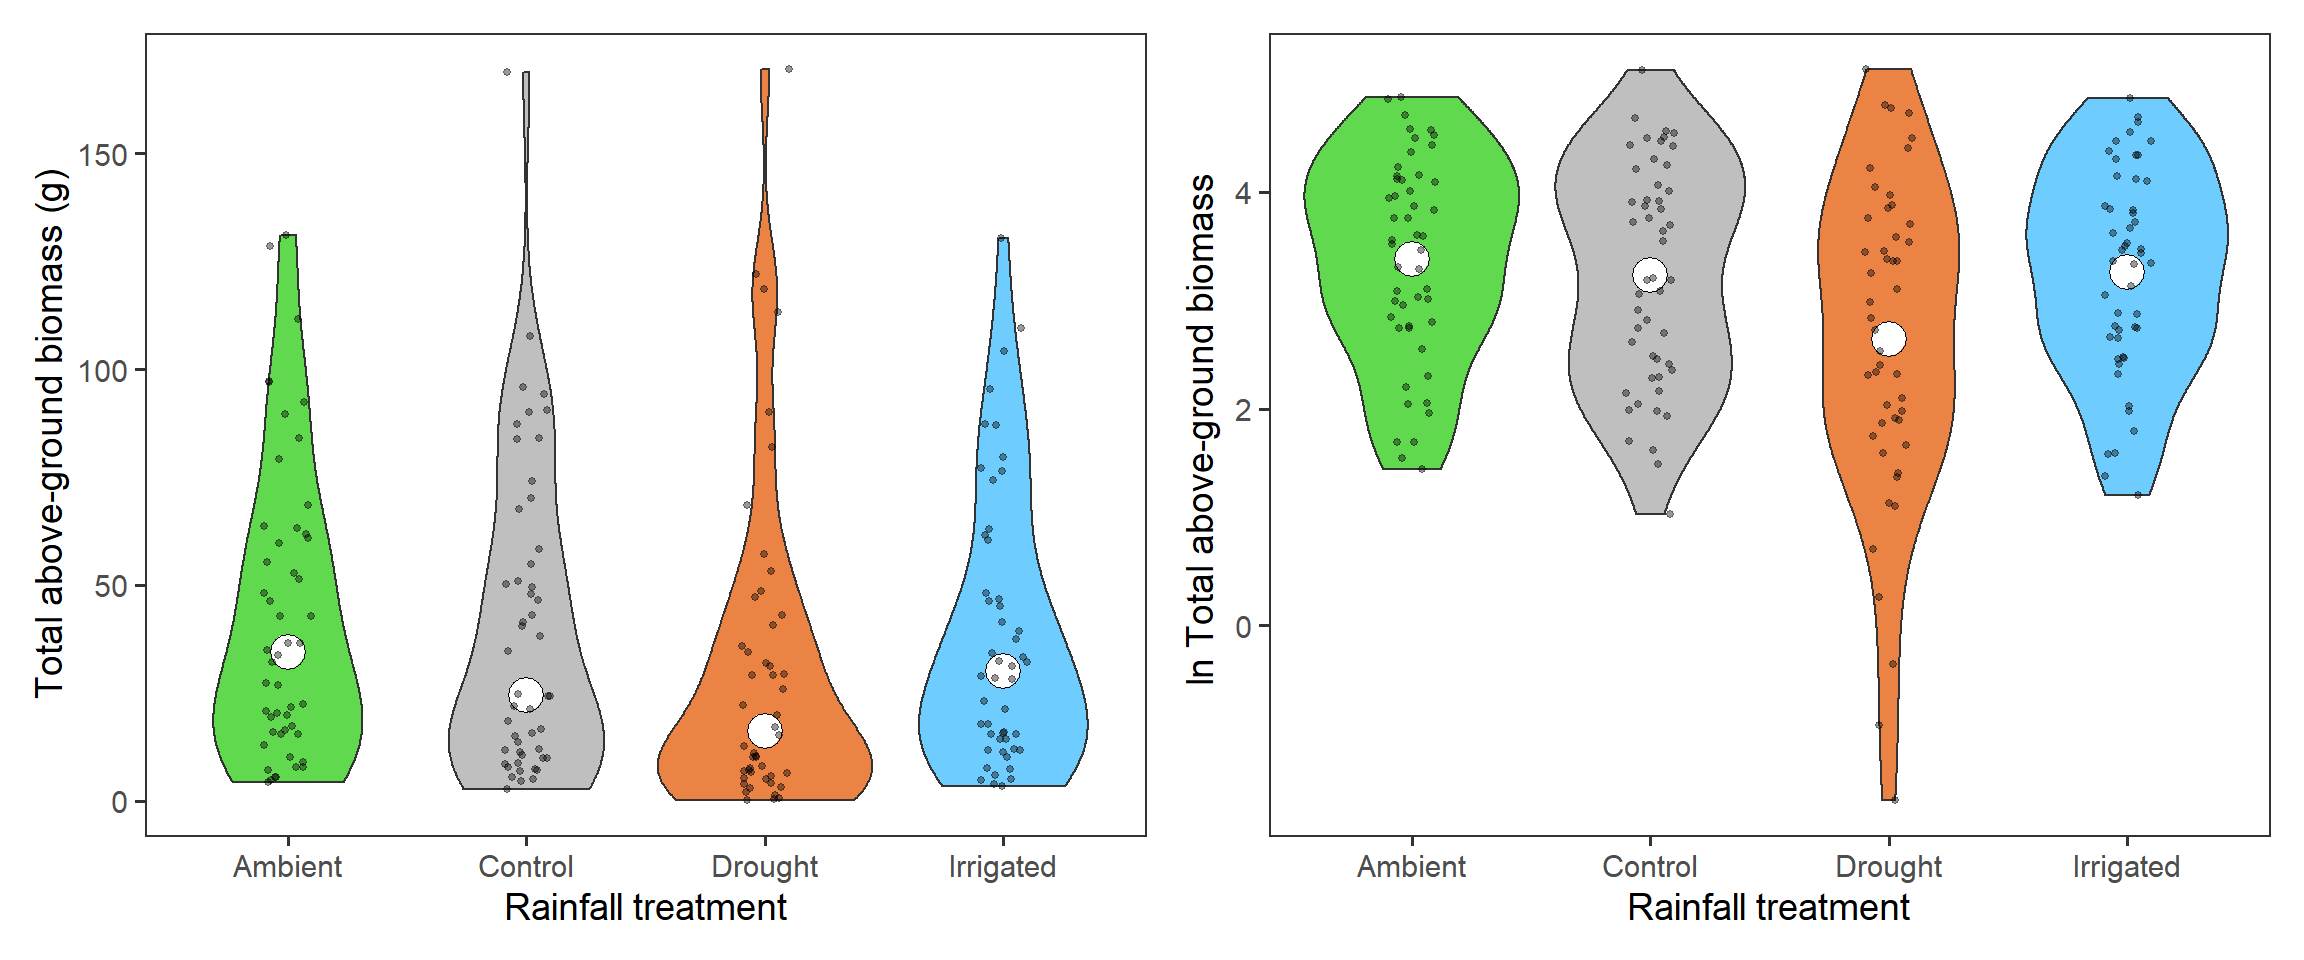
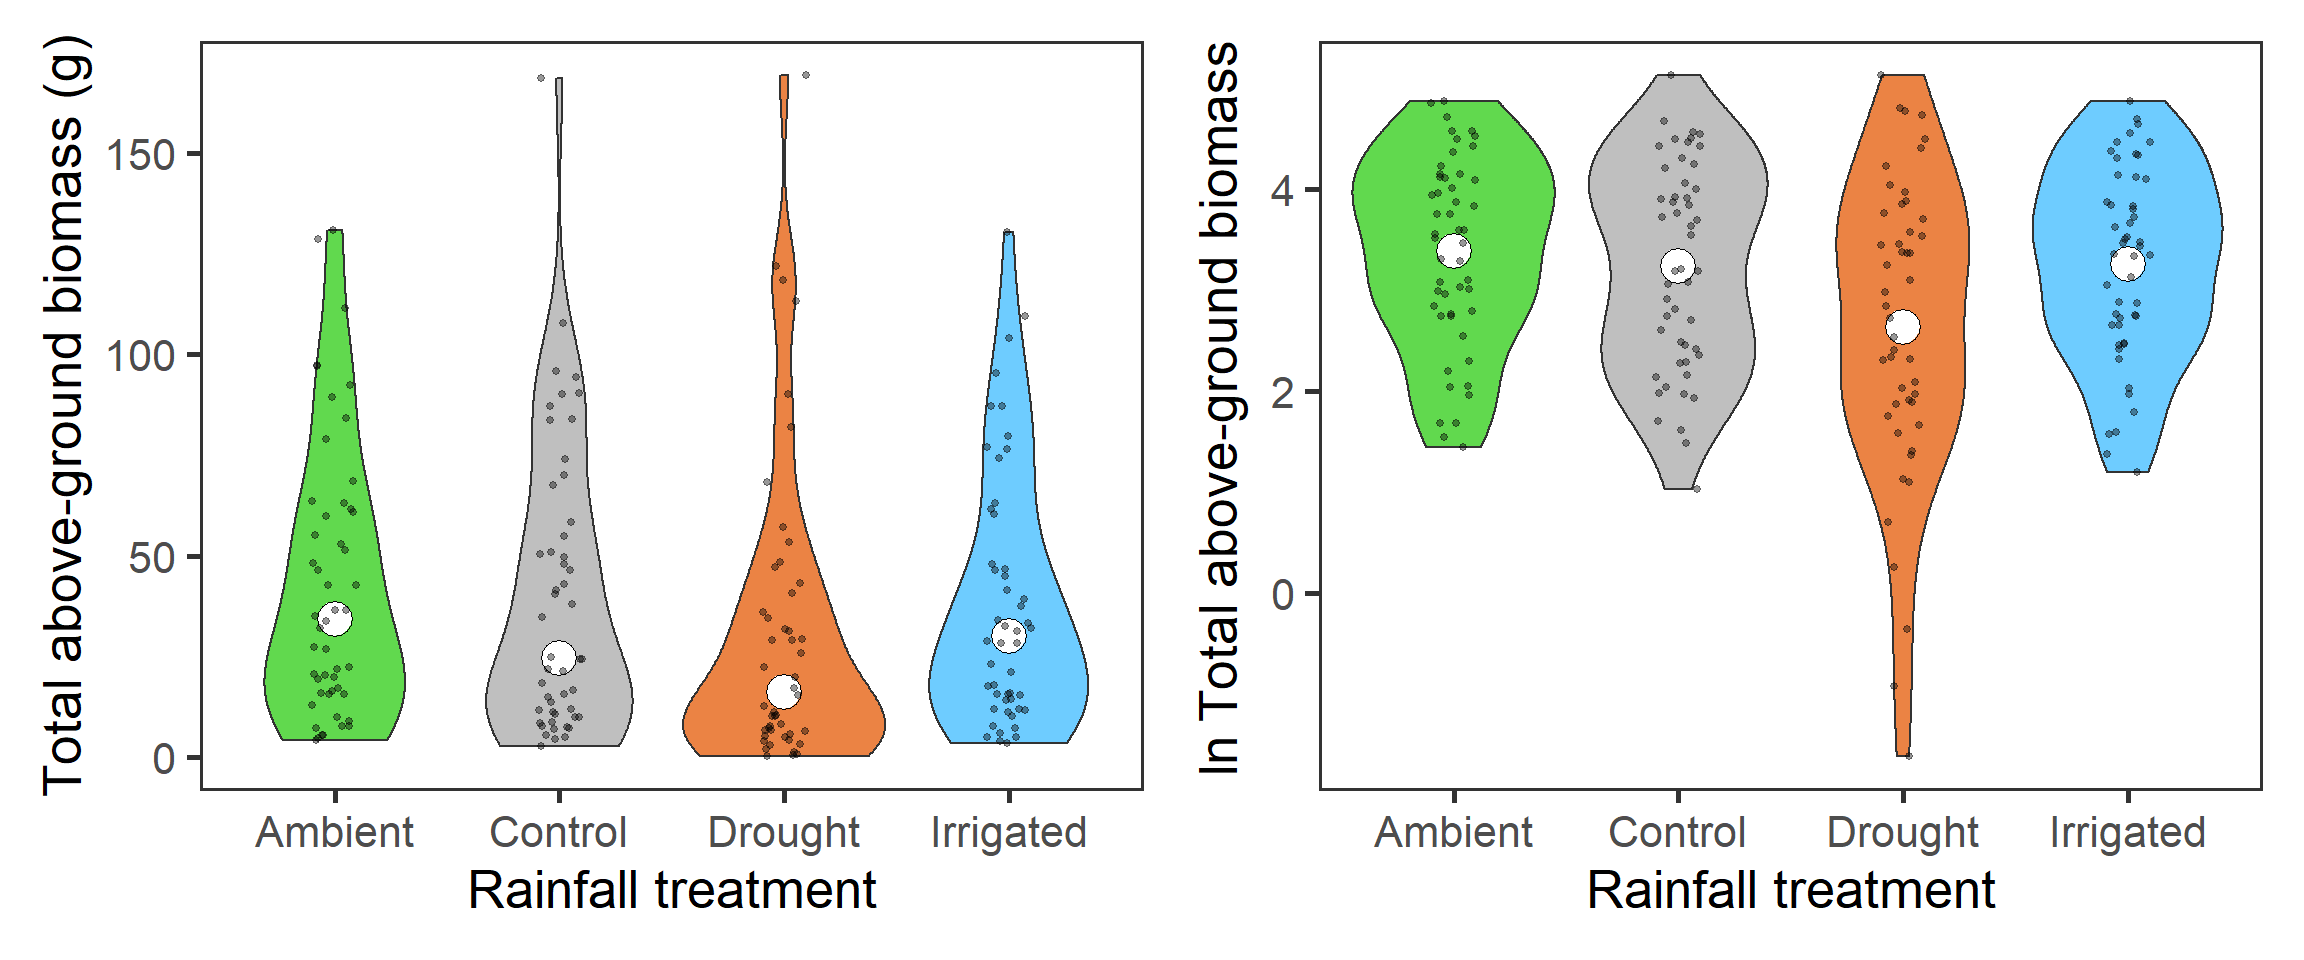
Build site.

diff --git a/docs/exploratory_analysis.html b/docs/exploratory_analysis.html
@@ -484,16 +484,16 @@ This reproducible <a href="http://rmarkdown.rstudio.com">R Markdown</a> analysis
 <div class="panel panel-default">
 <div class="panel-heading">
 <p class="panel-title">
-<a data-toggle="collapse" data-parent="#workflowr-checks" href="#strongRepositoryversionstrongahrefhttpsgithubcomjjacksonecoRainDropbiodiversitytreef8308afec68486d61e55d5dc56f0a9070f50786etargetblankf8308afa"> <span class="glyphicon glyphicon-ok text-success" aria-hidden="true"></span> <strong>Repository version:</strong> <a href="https://github.com/jjackson-eco/RainDrop_biodiversity/tree/f8308afec68486d61e55d5dc56f0a9070f50786e" target="_blank">f8308af</a> </a>
+<a data-toggle="collapse" data-parent="#workflowr-checks" href="#strongRepositoryversionstrongahrefhttpsgithubcomjjacksonecoRainDropbiodiversitytree0faa75d950108e0e86e07af62f7dab8dd7fdb116targetblank0faa75da"> <span class="glyphicon glyphicon-ok text-success" aria-hidden="true"></span> <strong>Repository version:</strong> <a href="https://github.com/jjackson-eco/RainDrop_biodiversity/tree/0faa75d950108e0e86e07af62f7dab8dd7fdb116" target="_blank">0faa75d</a> </a>
 </p>
 </div>
[2 lines of base64/hex data omitted]
 <div class="panel-body">
 <p>
 Great! You are using Git for version control. Tracking code development and connecting the code version to the results is critical for reproducibility.
 </p>
 <p>
-The results in this page were generated with repository version <a href="https://github.com/jjackson-eco/RainDrop_biodiversity/tree/f8308afec68486d61e55d5dc56f0a9070f50786e" target="_blank">f8308af</a>. See the <em>Past versions</em> tab to see a history of the changes made to the R Markdown and HTML files.
+The results in this page were generated with repository version <a href="https://github.com/jjackson-eco/RainDrop_biodiversity/tree/0faa75d950108e0e86e07af62f7dab8dd7fdb116" target="_blank">0faa75d</a>. See the <em>Past versions</em> tab to see a history of the changes made to the R Markdown and HTML files.
 </p>
 <p>
 Note that you need to be careful to ensure that all relevant files for the analysis have been committed to Git prior to generating the results (you can use <code>wflow_publish</code> or <code>wflow_git_commit</code>). workflowr only checks the R Markdown file, but you know if there are other scripts or data files that it depends on. Below is the status of the Git repository when the results were generated:
@@ -502,6 +502,7 @@ Note that you need to be careful to ensure that all relevant files for the analy
 Ignored files:
     Ignored:    .Rhistory
     Ignored:    .Rproj.user/
+    Ignored:    analysis/site_libs/
 
 Unstaged changes:
     Deleted:    analysis/about.Rmd
@@ -543,6 +544,40 @@ Message
 </tr>
 </thead>
 <tbody>
+<tr>
+<td>
+Rmd
+</td>
+<td>
+<a href="https://github.com/jjackson-eco/RainDrop_biodiversity/blob/0faa75d950108e0e86e07af62f7dab8dd7fdb116/analysis/exploratory_analysis.Rmd" target="_blank">0faa75d</a>
+</td>
+<td>
+jjackson-eco
+</td>
+<td>
+2021-04-08
+</td>
+<td>
+exploration update
+</td>
+</tr>
+<tr>
+<td>
+html
+</td>
+<td>
+<a href="https://rawcdn.githack.com/jjackson-eco/RainDrop_biodiversity/c69c14a17a2357a2daa7331c574cf95aadb5fe40/docs/exploratory_analysis.html" target="_blank">c69c14a</a>
+</td>
+<td>
+jjackson-eco
+</td>
+<td>
+2021-04-08
+</td>
+<td>
+Build site.
+</td>
+</tr>
 <tr>
 <td>
 Rmd
@@ -652,6 +687,7 @@ $ biomass_g &lt;dbl&gt; 0.7, 4.5, 16.5, 49.7, 7.7, 0.0, 0.3, 2.4, 20.0, 46.7, 3.
 <li>$<strong>group</strong> - functional group of measurement (category “Bryophytes”, “Dead”, “Forbs”, “Graminoids”, “Legumes” and “Woody”)</li>
 <li>$<strong>biomass_g</strong> - above-ground dry mass in grams (continuous)</li>
 </ul>
+<hr />
 </div>
 <div id="biomass-variable" class="section level2">
 <h2>Biomass variable</h2>
@@ -676,6 +712,7 @@ ggplot(biomass, aes(x = biomass_log)) +
   theme(panel.grid = element_blank())</code></pre>
 <p><img src="figure/exploratory_analysis.Rmd/biomass%20log%20hist-1.png" width="480" style="display: block; margin: auto;" /></p>
 <p>Using the ln biomass variable, we can explore patterns relating to our drought treatments, functional groups, temporal patterns and any potential block effects.</p>
+<hr />
 </div>
 <div id="total-biomass" class="section level2">
 <h2>Total biomass</h2>
@@ -696,7 +733,7 @@ ggplot(biomass, aes(x = biomass_log)) +
   scale_fill_manual(values = raindrop_colours$colour,
                     guide = F) +
   labs(x = &quot;Rainfall treatment&quot;, y = &quot;Total above-ground biomass (g)&quot;) +
-  theme_bw(base_size = 14) +
+  theme_bw(base_size = 20) +
   theme(panel.grid = element_blank())
 
 tb_2 &lt;- totbiomass %&gt;% 
@@ -710,7 +747,7 @@ tb_2 &lt;- totbiomass %&gt;%
                     guide = F) +
   labs(x = &quot;Rainfall treatment&quot;, 
        y = expression(paste(ln, &quot; Total above-ground biomass&quot;))) +
-  theme_bw(base_size = 14) +
+  theme_bw(base_size = 20) +
   theme(panel.grid = element_blank())
 
 tb_1 + tb_2</code></pre>
@@ -727,7 +764,7 @@ totbiomass &lt;- totbiomass %&gt;%
 totbiomass %&gt;% 
   ggplot(aes(x = date, y = log_tot_biomass, colour = treatment, 
              group = treatment, shape = harvest)) +
-  stat_summary(geom = &quot;line&quot;, fun = mean, size = 1) +
+  stat_summary(geom = &quot;line&quot;, fun = mean, size = 0.9) +
   stat_summary(geom = &quot;point&quot;, fun = mean, size = 3) +
   scale_colour_manual(values = raindrop_colours$colour) +
   labs(x = &quot;Year&quot;, y = expression(paste(&quot;Mean &quot;, ln, &quot; total biomass&quot;)),
@@ -735,20 +772,72 @@ totbiomass %&gt;%
   theme_bw(base_size = 14) +
   theme(panel.grid = element_blank())</code></pre>
 <p><img src="figure/exploratory_analysis.Rmd/tot%20biomass%20temporal-1.png" width="672" style="display: block; margin: auto;" /></p>
-<p>And also splitting out the harvests</p>
+<p>And also splitting out the harvests, as the end of the growing season has lower biomass</p>
 <pre class="r"><code>totbiomass %&gt;% 
   ggplot(aes(x = year, y = log_tot_biomass, colour = treatment, 
              group = treatment)) +
-  stat_summary(geom = &quot;line&quot;, fun = mean, size = 1) +
+  stat_summary(geom = &quot;line&quot;, fun = mean, size = 0.9) +
   stat_summary(geom = &quot;point&quot;, fun = mean, size = 3) +
   scale_colour_manual(values = raindrop_colours$colour) +
   labs(x = &quot;Year&quot;, y = expression(paste(&quot;Mean &quot;, ln, &quot; total biomass&quot;)),
        colour = &quot;Treatment&quot;) +
   facet_wrap(~harvest) +
-  theme_bw(base_size = 14) +
+  theme_bw(base_size = 20) +
   theme(panel.grid = element_blank(),
         strip.background = element_blank())</code></pre>
 <p><img src="figure/exploratory_analysis.Rmd/tot%20biomass%20temporal%202-1.png" width="1152" style="display: block; margin: auto;" /></p>
+<p>It looks like there may have been declines in total biomass over the years (perhaps reflecting wider climatic patterns?), but this also seems to be more prominent in the drought treatment.</p>
+<p>Finally for total biomass, we want to look if we have any evidence for block effects at the experimental site. Here we will repeat the first treatment violin plot, but splitting by block. Here each violin is a different block (A-E from left to right) with the 50% quantile.</p>
+<pre class="r"><code>totbiomass %&gt;% 
+  ggplot(aes(x = treatment, y = log_tot_biomass, 
+             fill = treatment, 
+             group = interaction(treatment, block))) +
+  geom_violin(draw_quantiles = 0.5) +
+  scale_fill_manual(values = raindrop_colours$colour,
+                    guide = F) +
+  labs(x = &quot;Rainfall treatment&quot;, 
+       y = expression(paste(ln, &quot; Total above-ground biomass&quot;))) +
+  theme_bw(base_size = 14) +
+  theme(panel.grid = element_blank())</code></pre>
+<p><img src="figure/exploratory_analysis.Rmd/total%20biomass%20block-1.png" width="576" style="display: block; margin: auto;" /></p>
+<p>It seems that largely blocks are consistent across the RainDrop site.</p>
+<hr />
+</div>
+<div id="group-level-biomass" class="section level2">
+<h2>Group-level biomass</h2>
+<p>Now we can go a little further and look at whether we observe any differences in biomass between different functional groups, which occur at different proportions. First, lets look at the overall differences in biomass, or relative biomass, between functional groups.</p>
+<pre class="r"><code>biomass %&gt;% 
+  ggplot(aes(x = group, y = biomass_log, 
+             fill = group)) +
+  geom_violin() +
+  stat_summary(fun = mean, geom = &quot;point&quot;, 
+               size = 5, shape = 21, fill = &quot;white&quot;) +
+  geom_jitter(width = 0.15, alpha = 0.2, size = 1) +
+  scale_fill_brewer(palette = &quot;Set2&quot;, guide = F) +
+  labs(x = &quot;Functional group&quot;, 
+       y = expression(paste(ln, &quot; Above-ground biomass&quot;))) +
+  theme_bw(base_size = 14) +
+  theme(panel.grid = element_blank())</code></pre>
+<p><img src="figure/exploratory_analysis.Rmd/functional%20group%20biomass-1.png" width="576" style="display: block; margin: auto;" /></p>
+<p>We can see that there is a large representation (as expected) of Graminoids, and lower representation of Woody species and Bryophytes.</p>
+<p>Now lets look at the rainfall treatments by functional group.</p>
+<pre class="r"><code>biomass %&gt;% 
+  ggplot(aes(x = treatment, y = biomass_log, 
+             fill = treatment)) +
+  geom_violin() +
+  stat_summary(fun = mean, geom = &quot;point&quot;, 
+               size = 5, shape = 21, fill = &quot;white&quot;) +
+  geom_jitter(width = 0.15, alpha = 0.2, size = 1) +
+  scale_fill_manual(values = raindrop_colours$colour,
+                    guide = F) +
+  labs(x = &quot;Rainfall treatment&quot;, 
+       y = expression(paste(ln, &quot; Above-ground biomass&quot;))) +
+  facet_wrap(~ group, ncol = 2) +
+  theme_bw(base_size = 22) +
+  theme(panel.grid = element_blank(),
+        strip.background = element_blank())</code></pre>
+<p><img src="figure/exploratory_analysis.Rmd/functional%20group%20treatment-1.png" width="1152" style="display: block; margin: auto;" /></p>
+<p>It isn’t as clear hear as total biomass. However, for the group with the most representation, the Graminoids, this reduction in the drought treatment looks to be maintained.</p>
 </details>
 </div>
 </div>
@@ -791,22 +880,22 @@ other attached packages:
  [9] ggplot2_3.3.3   tidyverse_1.3.0 workflowr_1.6.2
 
 loaded via a namespace (and not attached):
- [1] Rcpp_1.0.6        lubridate_1.7.10  ps_1.6.0          assertthat_0.2.1 
- [5] rprojroot_2.0.2   digest_0.6.27     utf8_1.2.1        R6_2.5.0         
- [9] cellranger_1.1.0  backports_1.2.1   reprex_2.0.0      evaluate_0.14    
-[13] highr_0.8         httr_1.4.2        pillar_1.5.1      rlang_0.4.10     
-[17] readxl_1.3.1      rstudioapi_0.13   whisker_0.4       jquerylib_0.1.3  
-[21] rmarkdown_2.7     labeling_0.4.2    munsell_0.5.0     broom_0.7.5      
-[25] compiler_4.0.5    httpuv_1.5.5      modelr_0.1.8      xfun_0.22        
-[29] pkgconfig_2.0.3   htmltools_0.5.1.1 tidyselect_1.1.0  fansi_0.4.2      
-[33] crayon_1.4.1      dbplyr_2.1.0      withr_2.4.1       later_1.1.0.1    
-[37] grid_4.0.5        jsonlite_1.7.2    gtable_0.3.0      lifecycle_1.0.0  
-[41] DBI_1.1.1         git2r_0.28.0      magrittr_2.0.1    scales_1.1.1     
-[45] cli_2.3.1         stringi_1.5.3     farver_2.1.0      fs_1.5.0         
-[49] promises_1.2.0.1  xml2_1.3.2        bslib_0.2.4       ellipsis_0.3.1   
-[53] generics_0.1.0    vctrs_0.3.7       tools_4.0.5       glue_1.4.2       
-[57] hms_1.0.0         yaml_2.2.1        colorspace_2.0-0  rvest_1.0.0      
-[61] knitr_1.31        haven_2.3.1       sass_0.3.1       </code></pre>
+ [1] Rcpp_1.0.6         lubridate_1.7.10   ps_1.6.0           assertthat_0.2.1  
+ [5] rprojroot_2.0.2    digest_0.6.27      utf8_1.2.1         R6_2.5.0          
+ [9] cellranger_1.1.0   backports_1.2.1    reprex_2.0.0       evaluate_0.14     
+[13] highr_0.8          httr_1.4.2         pillar_1.5.1       rlang_0.4.10      
+[17] readxl_1.3.1       rstudioapi_0.13    whisker_0.4        jquerylib_0.1.3   
+[21] rmarkdown_2.7      labeling_0.4.2     munsell_0.5.0      broom_0.7.5       
+[25] compiler_4.0.5     httpuv_1.5.5       modelr_0.1.8       xfun_0.22         
+[29] pkgconfig_2.0.3    htmltools_0.5.1.1  tidyselect_1.1.0   fansi_0.4.2       
+[33] crayon_1.4.1       dbplyr_2.1.0       withr_2.4.1        later_1.1.0.1     
+[37] grid_4.0.5         jsonlite_1.7.2     gtable_0.3.0       lifecycle_1.0.0   
+[41] DBI_1.1.1          git2r_0.28.0       magrittr_2.0.1     scales_1.1.1      
+[45] cli_2.3.1          stringi_1.5.3      farver_2.1.0       fs_1.5.0          
+[49] promises_1.2.0.1   xml2_1.3.2         bslib_0.2.4        ellipsis_0.3.1    
+[53] generics_0.1.0     vctrs_0.3.7        RColorBrewer_1.1-2 tools_4.0.5       
+[57] glue_1.4.2         hms_1.0.0          yaml_2.2.1         colorspace_2.0-0  
+[61] rvest_1.0.0        knitr_1.31         haven_2.3.1        sass_0.3.1        </code></pre>
 </div>
 </div>
 

diff --git a/docs/index.html b/docs/index.html
@@ -484,16 +484,16 @@ This reproducible <a href="http://rmarkdown.rstudio.com">R Markdown</a> analysis
 <div class="panel panel-default">
 <div class="panel-heading">
 <p class="panel-title">
-<a data-toggle="collapse" data-parent="#workflowr-checks" href="#strongRepositoryversionstrongahrefhttpsgithubcomjjacksonecoRainDropbiodiversitytreef8308afec68486d61e55d5dc56f0a9070f50786etargetblankf8308afa"> <span class="glyphicon glyphicon-ok text-success" aria-hidden="true"></span> <strong>Repository version:</strong> <a href="https://github.com/jjackson-eco/RainDrop_biodiversity/tree/f8308afec68486d61e55d5dc56f0a9070f50786e" target="_blank">f8308af</a> </a>
+<a data-toggle="collapse" data-parent="#workflowr-checks" href="#strongRepositoryversionstrongahrefhttpsgithubcomjjacksonecoRainDropbiodiversitytree0faa75d950108e0e86e07af62f7dab8dd7fdb116targetblank0faa75da"> <span class="glyphicon glyphicon-ok text-success" aria-hidden="true"></span> <strong>Repository version:</strong> <a href="https://github.com/jjackson-eco/RainDrop_biodiversity/tree/0faa75d950108e0e86e07af62f7dab8dd7fdb116" target="_blank">0faa75d</a> </a>
 </p>
 </div>
[2 lines of base64/hex data omitted]
 <div class="panel-body">
 <p>
 Great! You are using Git for version control. Tracking code development and connecting the code version to the results is critical for reproducibility.
 </p>
 <p>
-The results in this page were generated with repository version <a href="https://github.com/jjackson-eco/RainDrop_biodiversity/tree/f8308afec68486d61e55d5dc56f0a9070f50786e" target="_blank">f8308af</a>. See the <em>Past versions</em> tab to see a history of the changes made to the R Markdown and HTML files.
+The results in this page were generated with repository version <a href="https://github.com/jjackson-eco/RainDrop_biodiversity/tree/0faa75d950108e0e86e07af62f7dab8dd7fdb116" target="_blank">0faa75d</a>. See the <em>Past versions</em> tab to see a history of the changes made to the R Markdown and HTML files.
 </p>
 <p>
 Note that you need to be careful to ensure that all relevant files for the analysis have been committed to Git prior to generating the results (you can use <code>wflow_publish</code> or <code>wflow_git_commit</code>). workflowr only checks the R Markdown file, but you know if there are other scripts or data files that it depends on. Below is the status of the Git repository when the results were generated:
@@ -543,6 +543,23 @@ Message
 </tr>
 </thead>
 <tbody>
+<tr>
+<td>
+html
+</td>
+<td>
+<a href="https://rawcdn.githack.com/jjackson-eco/RainDrop_biodiversity/c69c14a17a2357a2daa7331c574cf95aadb5fe40/docs/index.html" target="_blank">c69c14a</a>
+</td>
+<td>
+jjackson-eco
+</td>
+<td>
+2021-04-08
+</td>
+<td>
+Build site.
+</td>
+</tr>
 <tr>
 <td>
 Rmd
